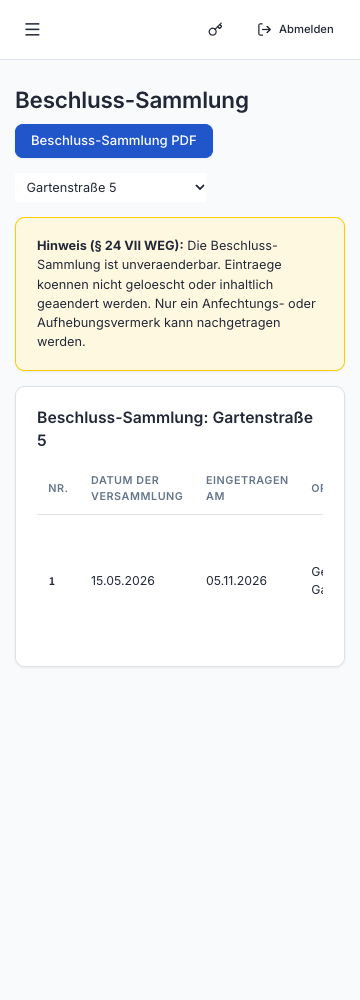
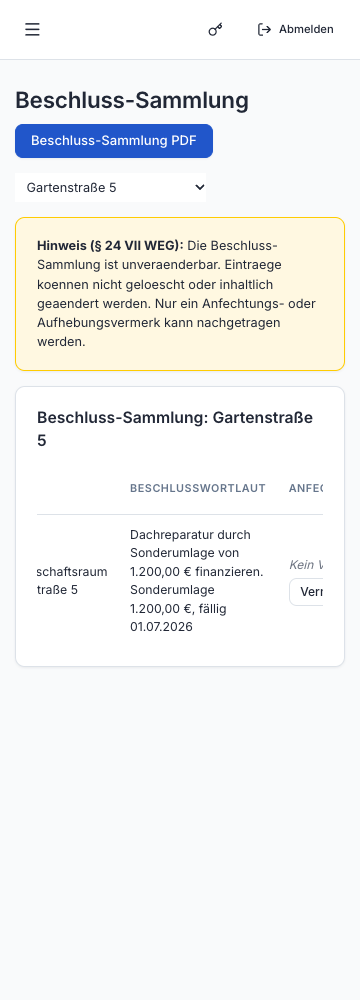
test(weg): show register links in the narrow screenshot
The narrow register scrolls horizontally, so its initial columns hid the new levy link in the captured evidence. Scroll the link into view and assert viewport visibility before capturing it.

Verify the real 360 px creation and navigation journey.

Refs #203

Changed region(s): [[0.0917, 0.465, 0.8861, 0.651], [0.7944, 0.558, 0.9167, 0.62], [0.1222, 0.465, 0.1833, 0.496]]

diff --git a/backend/tests/bdd/steps/special_levy.py b/backend/tests/bdd/steps/special_levy.py
@@ -142,6 +142,8 @@ async def browser_register_reference(browser_world):
     browser = browser_world
     link = browser.page.get_by_role('link', name=re.compile(r'Sonderumlage 1\.200,00\s€, fällig 01\.07\.2026'), exact=True)
     await expect(link).to_be_visible()
+    await link.scroll_into_view_if_needed()
+    await expect(link).to_be_in_viewport()
     await capture(browser, 'register')
     await link.click()
     await expect(browser.page.get_by_role('cell', name='720.00 EUR', exact=True)).to_be_visible()
